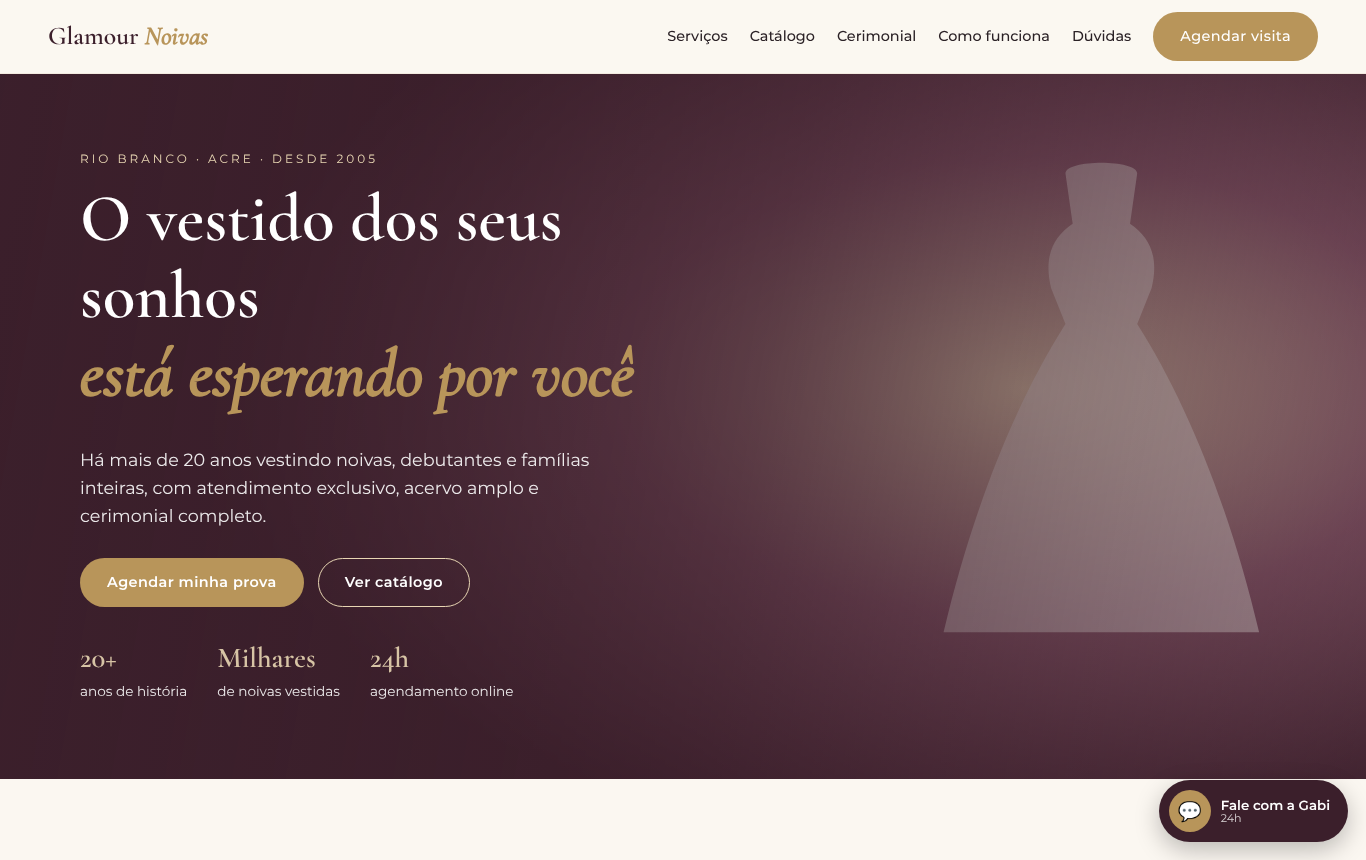
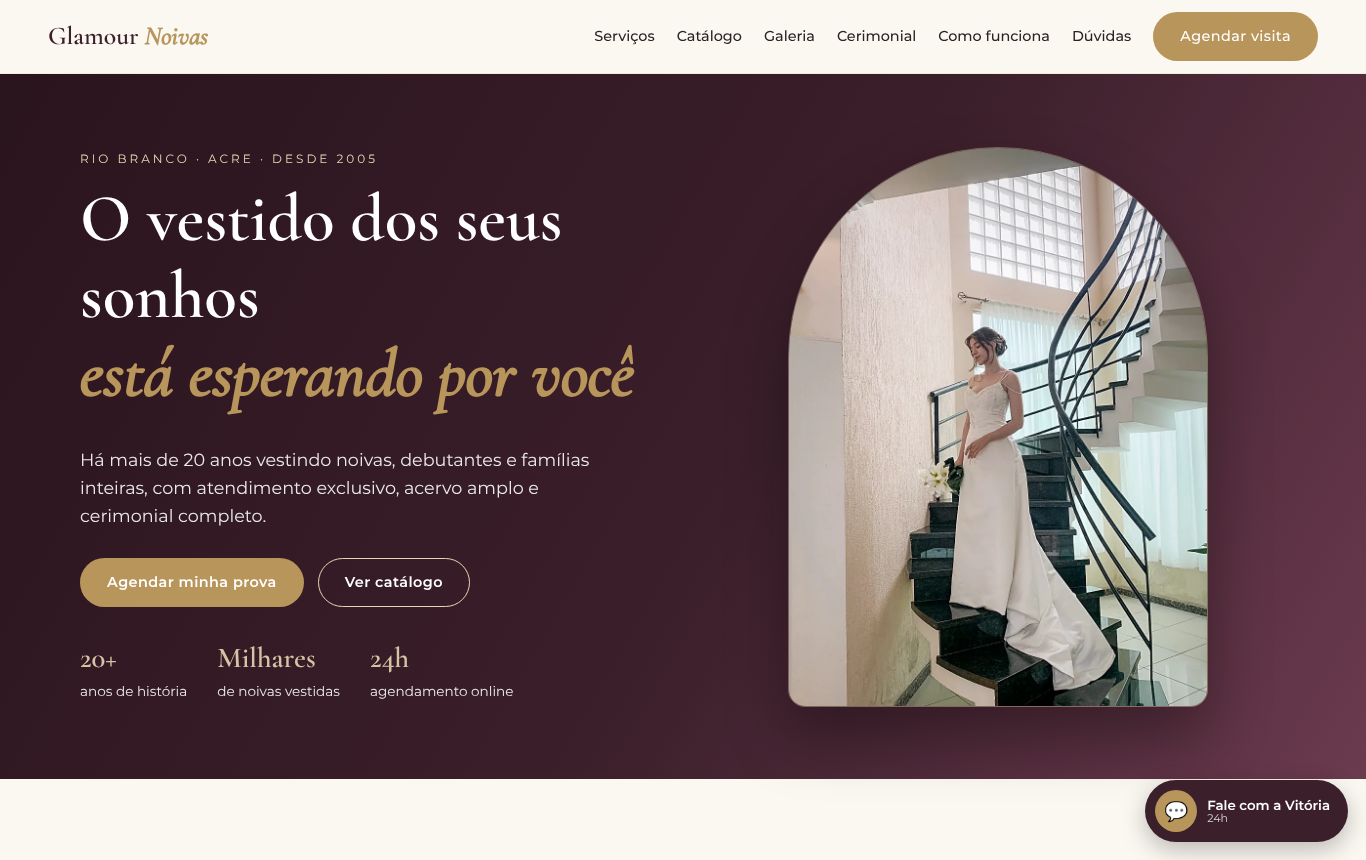
Fotos reais tratadas: vestidos Pérola, Majestade e Renda Imperial, foto na abertura, galeria e ampliação de fotos
Claude-Session: https://claude.ai/code/session_01QKfKEePFHhd3Y5UyopjLB6

Changed region(s): [[0.4612, 0.1209, 1.0, 0.8465], [0.8302, 0.8163, 1.0, 0.9977], [0.4305, 0.0302, 0.5842, 0.0605]]

diff --git a/public/js/app.js b/public/js/app.js
@@ -32,6 +32,7 @@ async function init() {
   $('#ano').textContent = new Date().getFullYear();
 
   montarCatalogo();
+  montarGaleria();
   montarAgendamento();
 }
 
@@ -55,6 +56,8 @@ function montarCatalogo() {
       fav.textContent = App.favoritos.has(id) ? '❤' : '🤍';
       atualizarResumoFavs();
     }
+    const zoom = e.target.closest('[data-zoom]');
+    if (zoom) { const it = App.catalogo.find(x => x.id === zoom.dataset.zoom); abrirLightbox((it.fotos && it.fotos.length) ? it.fotos : [it.imagem], 0, it.nome); }
     const provar = e.target.closest('.provar');
     if (provar) {
       App.favoritos.add(provar.dataset.id);
@@ -75,8 +78,9 @@ function renderCatalogo(cat) {
   itens = [...itens].sort((a, b) => b.destaque - a.destaque);
   $('#grade-catalogo').innerHTML = itens.length ? itens.map(i => `
     <article class="peca">
-      <div class="foto">${i.imagem ? `<img src="${esc(i.imagem)}" alt="${esc(i.nome)}" loading="lazy">` : silhueta(i.categoria)}</div>
+      <div class="foto">${i.imagem ? `<img src="${esc(i.imagem)}" alt="Vestido ${esc(i.nome)}" loading="lazy" data-zoom="${esc(i.id)}">` : silhueta(i.categoria)}</div>
       ${i.destaque ? '<span class="selo">DESTAQUE</span>' : ''}
+      ${(i.fotos || []).length > 1 ? `<span class="nfotos">📷 ${i.fotos.length} fotos</span>` : ''}
       <button class="fav" data-id="${esc(i.id)}" aria-label="Favoritar ${esc(i.nome)}">${App.favoritos.has(i.id) ? '❤' : '🤍'}</button>
       <div class="info">
         <h3>${esc(i.nome)}</h3>
@@ -91,6 +95,34 @@ function atualizarResumoFavs() {
   const nomes = App.catalogo.filter(i => App.favoritos.has(i.id)).map(i => i.nome);
   $('#fav-resumo').textContent = nomes.length ? `❤ Seus favoritos irão no agendamento: ${nomes.join(', ')}` : '';
 }
+
+// ---------- galeria e fotos ampliadas ----------
+function montarGaleria() {
+  const fotos = App.catalogo.flatMap(i => (i.fotos || []).map(f => ({ f, nome: i.nome })));
+  const sec = $('#galeria');
+  if (!fotos.length) { sec.hidden = true; return; }
+  $('#galeria-fotos').innerHTML = fotos.map((x, n) => `<button data-n="${n}" aria-label="Ampliar foto do vestido ${esc(x.nome)}"><img src="${esc(x.f)}" alt="Vestido ${esc(x.nome)}" loading="lazy"></button>`).join('');
+  $('#galeria-fotos').addEventListener('click', e => { const b = e.target.closest('button'); if (b) abrirLightbox(fotos.map(x => x.f), +b.dataset.n, null, fotos.map(x => x.nome)); });
+}
+let lb = { lista: [], n: 0, nomes: [] };
+function abrirLightbox(lista, n, nome, nomes) {
+  lb = { lista, n, nomes: nomes || lista.map(() => nome) };
+  mostrarLb(); $('#lightbox').hidden = false; document.body.style.overflow = 'hidden';
+}
+function mostrarLb() {
+  $('#lb-img').src = lb.lista[lb.n]; $('#lb-img').alt = 'Vestido ' + (lb.nomes[lb.n] || '');
+  $('#lb-legenda').textContent = `${lb.nomes[lb.n] || ''}${lb.lista.length > 1 ? ` · ${lb.n + 1}/${lb.lista.length}` : ''}`;
+  $('.lb-ant').hidden = $('.lb-prox').hidden = lb.lista.length < 2;
+}
+function fecharLb() { $('#lightbox').hidden = true; document.body.style.overflow = ''; }
+document.addEventListener('DOMContentLoaded', () => {
+  $('.lb-fechar').onclick = fecharLb;
+  $('.lb-ant').onclick = () => { lb.n = (lb.n - 1 + lb.lista.length) % lb.lista.length; mostrarLb(); };
+  $('.lb-prox').onclick = () => { lb.n = (lb.n + 1) % lb.lista.length; mostrarLb(); };
+  $('#lightbox').onclick = e => { if (e.target.id === 'lightbox') fecharLb(); };
+  document.addEventListener('keydown', e => { if ($('#lightbox').hidden) return;
+    if (e.key === 'Escape') fecharLb(); if (e.key === 'ArrowLeft') $('.lb-ant').click(); if (e.key === 'ArrowRight') $('.lb-prox').click(); });
+});
 
 // ---------- agendamento ----------
 let horaEscolhida = null;

diff --git a/public/index.html b/public/index.html
@@ -6,6 +6,7 @@
 <title>Glamour Noivas | Vestidos de Noiva, 15 Anos e Cerimonial em Rio Branco – AC</title>
 <meta name="description" content="Há mais de 20 anos em Rio Branco: vestidos de noiva e de 15 anos, paletós adulto e infantil, acessórios e cerimonial. Agende sua visita online, 24 horas.">
 <meta property="og:title" content="Glamour Noivas – Rio Branco, AC">
+<meta property="og:image" content="img/vestidos/perola-1.webp">
 <meta property="og:description" content="Vestidos de noiva, 15 anos, paletós e cerimonial. Agende sua prova online.">
 <meta name="theme-color" content="#3b1f2b">
 <link rel="icon" href="img/favicon.svg" type="image/svg+xml">
@@ -24,6 +25,7 @@
   <nav class="menu">
     <a href="#servicos">Serviços</a>
     <a href="#catalogo">Catálogo</a>
+    <a href="#galeria">Galeria</a>
     <a href="#cerimonial">Cerimonial</a>
     <a href="#jornada">Como funciona</a>
     <a href="#faq">Dúvidas</a>
@@ -47,6 +49,7 @@
       <li><strong>24h</strong> agendamento online</li>
     </ul>
   </div>
+  <figure class="hero-foto"><img src="img/vestidos/perola-3.webp" alt="Noiva com o vestido Pérola na escadaria da Glamour Noivas" fetchpriority="high"></figure>
 </section>
 
 <section id="servicos" class="secao">
@@ -60,6 +63,12 @@
   <div class="filtros" id="filtros" role="tablist"></div>
   <div class="grade-catalogo" id="grade-catalogo"></div>
   <p class="sub pequeno">O acervo completo, com centenas de peças, está na loja. As fotos são ilustrativas.</p>
+</section>
+
+<section id="galeria" class="secao">
+  <h2>Momentos <em>Glamour</em></h2>
+  <p class="sub">Vestidos do nosso acervo, fotografados na loja. Toque para ampliar.</p>
+  <div class="galeria" id="galeria-fotos"></div>
 </section>
 
 <section id="cerimonial" class="secao cerimonial">
@@ -170,6 +179,13 @@
   <form class="chat-form" id="chat-form"><input id="chat-input" placeholder="Digite sua mensagem…" autocomplete="off" maxlength="300"><button aria-label="Enviar">➤</button></form>
 </section>
 
+<div class="lightbox" id="lightbox" hidden role="dialog" aria-label="Foto ampliada">
+  <button class="lb-fechar" aria-label="Fechar">×</button>
+  <button class="lb-ant" aria-label="Foto anterior">‹</button>
+  <img id="lb-img" alt="">
+  <button class="lb-prox" aria-label="Próxima foto">›</button>
+  <p id="lb-legenda"></p>
+</div>
 <script src="js/app.js"></script>
 <script src="js/chat.js"></script>
 </body>

diff --git a/public/css/style.css b/public/css/style.css
@@ -165,3 +165,23 @@ input:focus,select:focus,textarea:focus{outline:2px solid var(--ouro);outline-of
 .btn-texto{background:none;border:0;color:#a33;text-decoration:underline;cursor:pointer;font-family:var(--sans)}
 .secao-clara .btn-linha{color:var(--vinho);border-color:var(--ouro)}
 #rod-contatos{display:flex;flex-direction:column;gap:8px}
+
+/* fotos reais */
+.hero{gap:clamp(24px,5vw,72px);background:linear-gradient(120deg,#2a141e 0%,var(--vinho) 55%,#6b3a4e 100%)}
+.hero-txt{flex:1 1 0}
+.hero-foto{flex:0 1 420px;margin:0;align-self:stretch;display:flex;align-items:center}
+.hero-foto img{width:100%;aspect-ratio:3/4;object-fit:cover;object-position:50% 30%;border-radius:220px 220px 18px 18px;box-shadow:0 30px 60px rgba(0,0,0,.35);border:1px solid rgba(232,214,179,.35)}
+.peca .foto img{cursor:zoom-in;transition:transform .5s}
+.peca:hover .foto img{transform:scale(1.03)}
+.peca .nfotos{position:absolute;left:12px;top:calc(12px + 26px);background:rgba(255,255,255,.9);color:var(--vinho);font-size:.7rem;padding:3px 9px;border-radius:999px}
+.galeria{display:grid;grid-template-columns:repeat(auto-fill,minmax(200px,1fr));gap:14px;max-width:1200px;margin:24px auto 0}
+.galeria button{padding:0;border:0;border-radius:var(--raio);overflow:hidden;cursor:zoom-in;aspect-ratio:3/4;background:var(--creme)}
+.galeria img{width:100%;height:100%;object-fit:cover;transition:transform .5s}
+.galeria button:hover img{transform:scale(1.05)}
+.lightbox{position:fixed;inset:0;z-index:80;background:rgba(20,10,14,.94);display:flex;align-items:center;justify-content:center;flex-direction:column;padding:16px}
+.lightbox[hidden]{display:none}
+.lightbox img{max-width:min(92vw,900px);max-height:84vh;object-fit:contain;border-radius:8px}
+.lightbox p{color:var(--ouro-claro);margin:10px 0 0;text-align:center}
+.lightbox button{position:absolute;background:rgba(255,255,255,.12);color:#fff;border:0;font-size:2rem;width:48px;height:48px;border-radius:50%;cursor:pointer}
+.lb-fechar{top:16px;right:16px}.lb-ant{left:12px;top:50%}.lb-prox{right:12px;top:50%}
+@media (max-width:860px){.hero{flex-direction:column;align-items:stretch}.hero-foto{flex:none;max-width:420px;width:100%;margin:0 auto}}

diff --git a/server.js b/server.js
@@ -20,6 +20,19 @@ if (DATA !== SEED && !fs.existsSync(path.join(DATA, 'catalogo.json'))) {
   fs.copyFileSync(path.join(SEED, 'catalogo.json'), path.join(DATA, 'catalogo.json'));
   console.log('Catálogo inicial copiado para', DATA);
 }
+// Peças novas adicionadas no código (ex.: fotos reais) entram no catálogo do volume sem apagar o que foi editado no painel.
+if (DATA !== SEED) {
+  try {
+    const seed = JSON.parse(fs.readFileSync(path.join(SEED, 'catalogo.json'), 'utf8'));
+    const atual = JSON.parse(fs.readFileSync(path.join(DATA, 'catalogo.json'), 'utf8'));
+    const ids = new Set(atual.map(i => i.id));
+    const novos = seed.filter(i => !ids.has(i.id));
+    if (novos.length) {
+      fs.writeFileSync(path.join(DATA, 'catalogo.json'), JSON.stringify([...novos, ...atual], null, 2));
+      console.log(`${novos.length} peça(s) nova(s) adicionadas ao catálogo`);
+    }
+  } catch (e) { console.error('Falha ao mesclar catálogo', e.message); }
+}
 const config = () => {
   const cfg = JSON.parse(fs.readFileSync(path.join(SEED, 'config.json'), 'utf8'));
   cfg.agenda.datasBloqueadas = load('bloqueios.json', cfg.agenda.datasBloqueadas || []);
@@ -219,7 +232,7 @@ async function api(req, res, url) {
       id: clean(b.id, 40) || crypto.randomBytes(3).toString('hex'),
       nome: clean(b.nome, 80), categoria: clean(b.categoria, 30), estilo: clean(b.estilo, 40),
       tamanhos: clean(b.tamanhos, 60), cor: clean(b.cor, 40), descricao: clean(b.descricao, 400),
-      modalidade: clean(b.modalidade, 40) || 'Aluguel', imagem: clean(b.imagem, 300), destaque: !!b.destaque, ativo: b.ativo !== false
+      modalidade: clean(b.modalidade, 40) || 'Aluguel', imagem: clean(b.imagem, 300), fotos: (Array.isArray(b.fotos) ? b.fotos : String(b.fotos || '').split(',')).map(f => clean(f, 300)).filter(Boolean).slice(0, 12), destaque: !!b.destaque, ativo: b.ativo !== false
     };
     if (!item.nome || !item.categoria) return send(res, 400, { erro: 'Nome e categoria são obrigatórios' });
     const idx = all.findIndex(i => i.id === item.id);

diff --git a/public/admin.html b/public/admin.html
@@ -68,7 +68,8 @@ th,td{padding:10px 12px;text-align:left;border-bottom:1px solid var(--creme);ver
       <input name="tamanhos" placeholder="Tamanhos (36 ao 44)">
       <input name="cor" placeholder="Cor">
       <input name="modalidade" placeholder="Aluguel / Venda">
-      <input name="imagem" placeholder="Link da foto (ex.: img/aurora.jpg)">
+      <input name="imagem" placeholder="Foto da capa (ex.: img/vestidos/x-card.webp)">
+      <input name="fotos" placeholder="Outras fotos, separadas por vírgula">
       <label><input type="checkbox" name="destaque"> Destaque</label>
       <textarea name="descricao" rows="2" placeholder="Descrição"></textarea>
       <div><button class="btn ouro">Salvar peça</button> <button type="reset" class="btn leve">Limpar</button></div>
